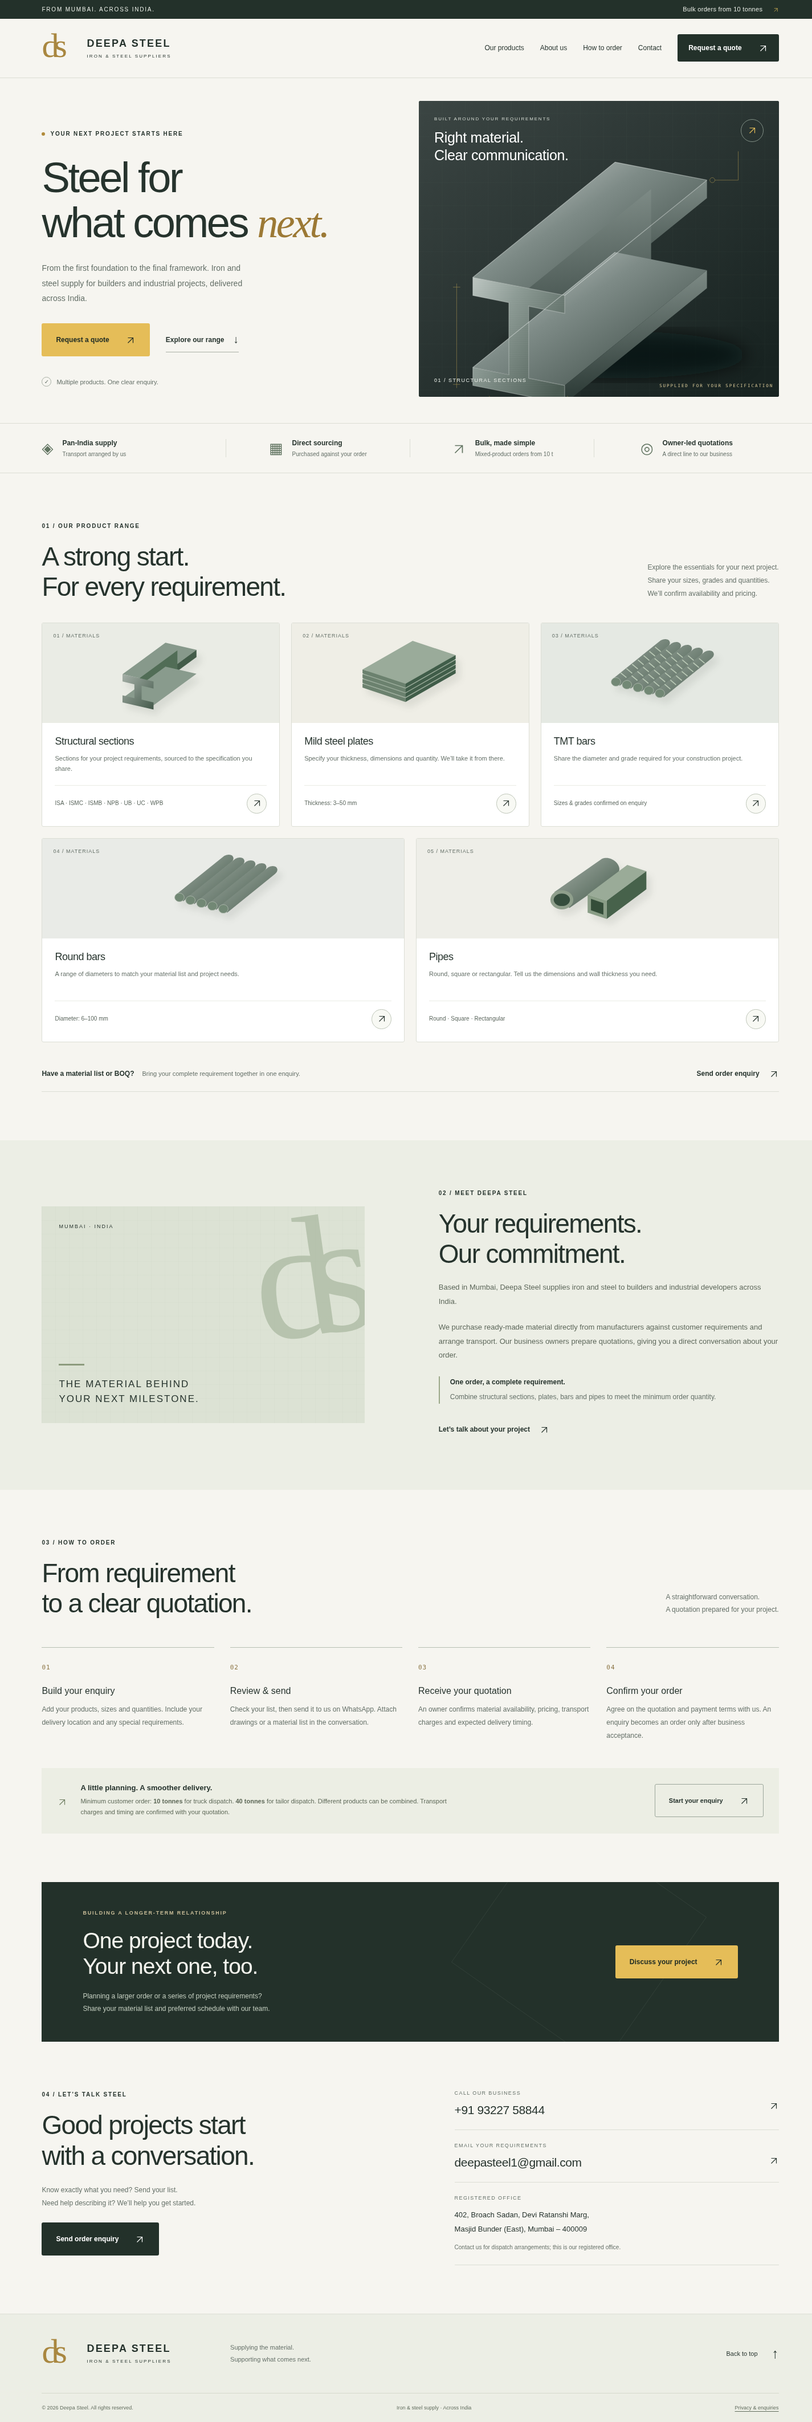
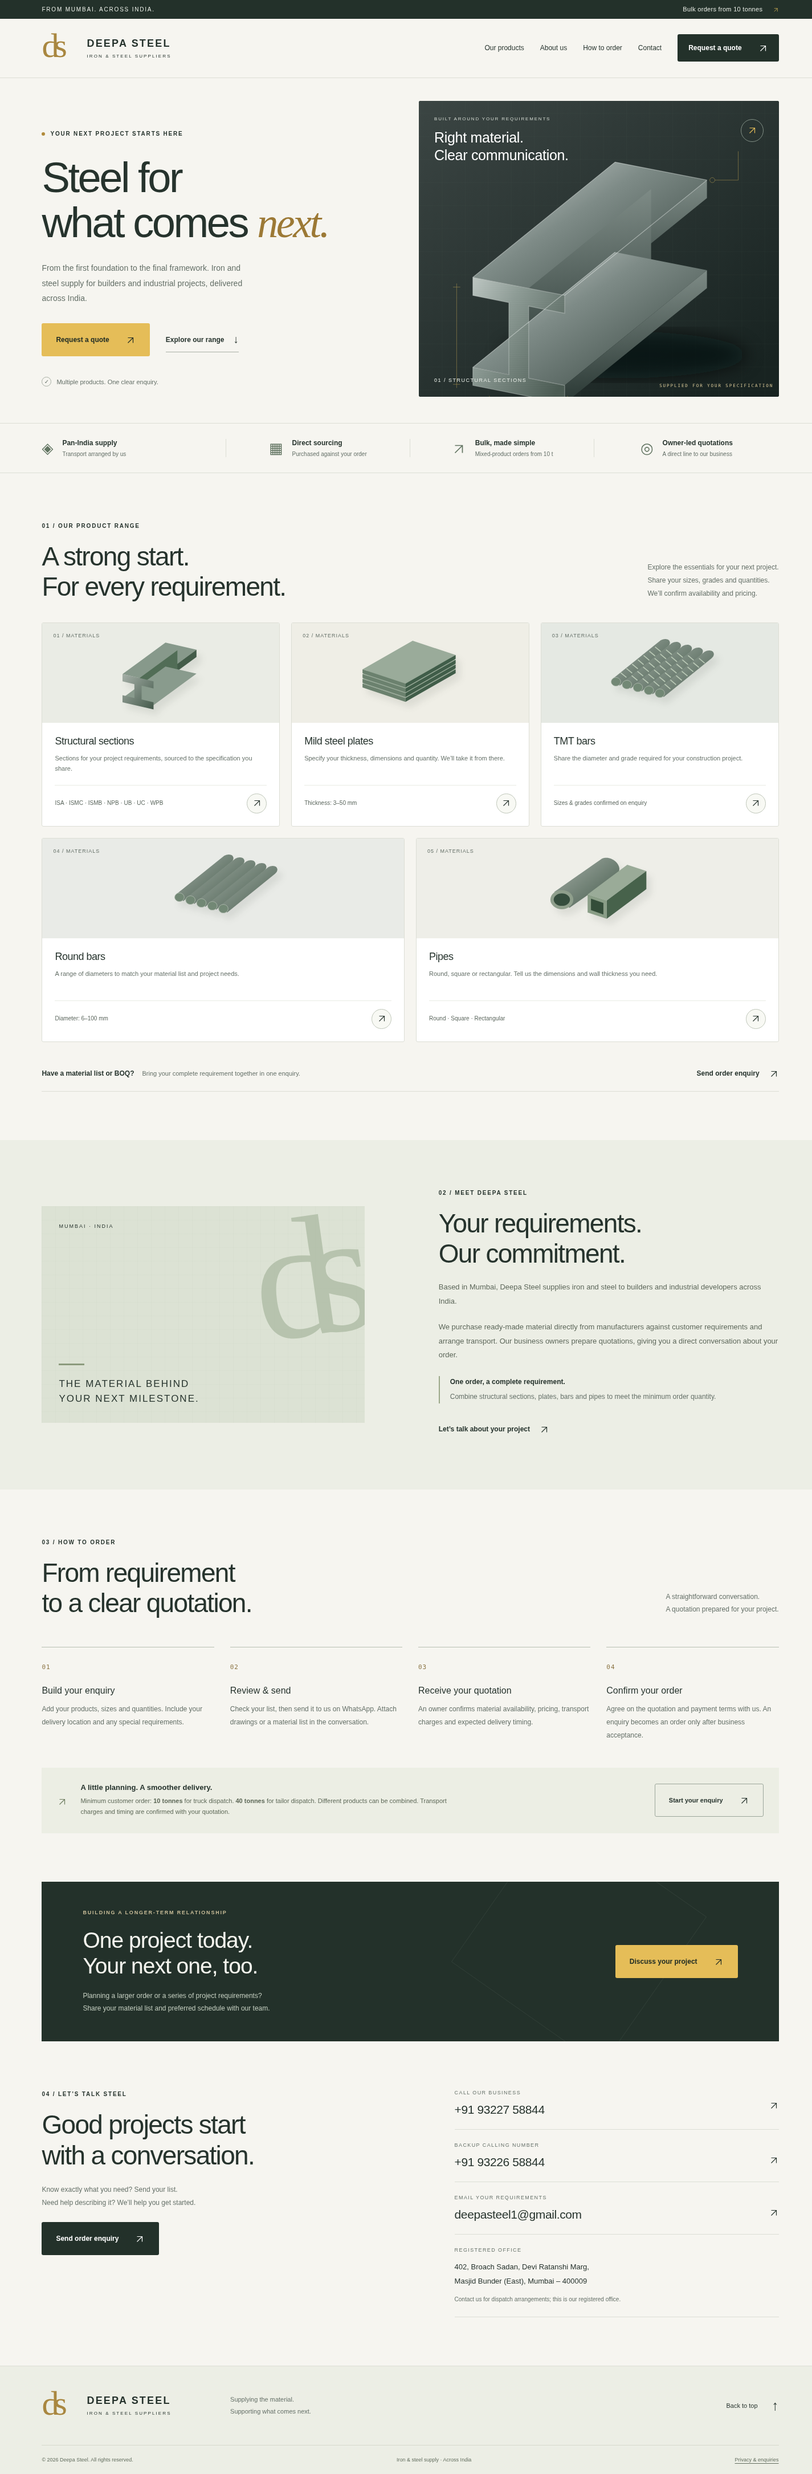
Add backup calling number to website and interactive preview

diff --git a/preview/Deepa-Steel-Preview.html b/preview/Deepa-Steel-Preview.html
@@ -49,15 +49,15 @@ dialog{border:1px solid var(--line);border-radius:8px;background:var(--paper);co
     <section class="about-section section" id="about"><div class="about-art" aria-hidden="true"><div class="about-ds">ds</div><span>MUMBAI · INDIA</span><div class="about-line"></div><p>THE MATERIAL BEHIND<br>YOUR NEXT MILESTONE.</p></div><div class="about-copy"><p class="eyebrow">02 / MEET DEEPA STEEL</p><h2>Your requirements.<br>Our commitment.</h2><p>Based in Mumbai, Deepa Steel supplies iron and steel to builders and industrial developers across India.</p><p>We purchase ready-made material directly from manufacturers against customer requirements and arrange transport. Our business owners prepare quotations, giving you a direct conversation about your order.</p><div class="about-detail"><span>One order, a complete requirement.</span><p>Combine structural sections, plates, bars and pipes to meet the minimum order quantity.</p></div><a class="text-link" href="#contact">Let’s talk about your project <span aria-hidden="true"><svg class="arrow-icon" viewBox="0 0 24 24" width="18" height="18" fill="none" stroke="currentColor" stroke-width="1.6" aria-hidden="true"><path d="M6 18 18 6M6 6h12v12"/></svg></span></a></div></section>
     <section class="section order-section" id="how-to-order"><div class="section-heading"><div><p class="eyebrow">03 / HOW TO ORDER</p><h2>From requirement<br>to a clear quotation.</h2></div><p>A straightforward conversation.<br>A quotation prepared for your project.</p></div><div class="steps"><article><span class="step-number">01</span><h3>Build your enquiry</h3><p>Add your products, sizes and quantities. Include your delivery location and any special requirements.</p></article><article><span class="step-number">02</span><h3>Review & send</h3><p>Check your list, then send it to us on WhatsApp. Attach drawings or a material list in the conversation.</p></article><article><span class="step-number">03</span><h3>Receive your quotation</h3><p>An owner confirms material availability, pricing, transport charges and expected delivery timing.</p></article><article><span class="step-number">04</span><h3>Confirm your order</h3><p>Agree on the quotation and payment terms with us. An enquiry becomes an order only after business acceptance.</p></article></div><div class="delivery-note"><span class="delivery-icon" aria-hidden="true"><svg class="arrow-icon" viewBox="0 0 24 24" width="18" height="18" fill="none" stroke="currentColor" stroke-width="1.6" aria-hidden="true"><path d="M6 18 18 6M6 6h12v12"/></svg></span><div><h3>A little planning. A smoother delivery.</h3><p>Minimum customer order: <strong>10 tonnes</strong> for truck dispatch. <strong>40 tonnes</strong> for tailor dispatch. Different products can be combined. Transport charges and timing are confirmed with your quotation.</p></div><button class="button button-outline" data-enquire>Start your enquiry <span aria-hidden="true"><svg class="arrow-icon" viewBox="0 0 24 24" width="18" height="18" fill="none" stroke="currentColor" stroke-width="1.6" aria-hidden="true"><path d="M6 18 18 6M6 6h12v12"/></svg></span></button></div></section>
     <section class="project-banner"><div><p class="eyebrow">BUILDING A LONGER-TERM RELATIONSHIP</p><h2>One project today.<br>Your next one, too.</h2><p>Planning a larger order or a series of project requirements?<br>Share your material list and preferred schedule with our team.</p></div><button class="button button-gold" data-enquire data-purpose="Repeat / project supply">Discuss your project <span aria-hidden="true"><svg class="arrow-icon" viewBox="0 0 24 24" width="18" height="18" fill="none" stroke="currentColor" stroke-width="1.6" aria-hidden="true"><path d="M6 18 18 6M6 6h12v12"/></svg></span></button></section>
-    <section class="section contact-section" id="contact"><div><p class="eyebrow">04 / LET’S TALK STEEL</p><h2>Good projects start<br>with a conversation.</h2><p>Know exactly what you need? Send your list.<br>Need help describing it? We’ll help you get started.</p><button class="button button-dark" data-enquire>Send order enquiry <span aria-hidden="true"><svg class="arrow-icon" viewBox="0 0 24 24" width="18" height="18" fill="none" stroke="currentColor" stroke-width="1.6" aria-hidden="true"><path d="M6 18 18 6M6 6h12v12"/></svg></span></button></div><div class="contact-details"><a href="tel:+919322758844"><span>CALL OUR BUSINESS</span><strong>+91 93227 58844</strong><span class="contact-arrow" aria-hidden="true"><svg class="arrow-icon" viewBox="0 0 24 24" width="18" height="18" fill="none" stroke="currentColor" stroke-width="1.6" aria-hidden="true"><path d="M6 18 18 6M6 6h12v12"/></svg></span></a><a href="mailto:deepasteel1@gmail.com"><span>EMAIL YOUR REQUIREMENTS</span><strong>deepasteel1@gmail.com</strong><span class="contact-arrow" aria-hidden="true"><svg class="arrow-icon" viewBox="0 0 24 24" width="18" height="18" fill="none" stroke="currentColor" stroke-width="1.6" aria-hidden="true"><path d="M6 18 18 6M6 6h12v12"/></svg></span></a><div><span>REGISTERED OFFICE</span><p>402, Broach Sadan, Devi Ratanshi Marg,<br>Masjid Bunder (East), Mumbai – 400009</p><small>Contact us for dispatch arrangements; this is our registered office.</small></div></div></section>
+    <section class="section contact-section" id="contact"><div><p class="eyebrow">04 / LET’S TALK STEEL</p><h2>Good projects start<br>with a conversation.</h2><p>Know exactly what you need? Send your list.<br>Need help describing it? We’ll help you get started.</p><button class="button button-dark" data-enquire>Send order enquiry <span aria-hidden="true"><svg class="arrow-icon" viewBox="0 0 24 24" width="18" height="18" fill="none" stroke="currentColor" stroke-width="1.6" aria-hidden="true"><path d="M6 18 18 6M6 6h12v12"/></svg></span></button></div><div class="contact-details"><a href="tel:+919322758844"><span>CALL OUR BUSINESS</span><strong>+91 93227 58844</strong><span class="contact-arrow" aria-hidden="true"><svg class="arrow-icon" viewBox="0 0 24 24" width="18" height="18" fill="none" stroke="currentColor" stroke-width="1.6" aria-hidden="true"><path d="M6 18 18 6M6 6h12v12"/></svg></span></a><a href="tel:+919322658844"><span>BACKUP CALLING NUMBER</span><strong>+91 93226 58844</strong><span class="contact-arrow" aria-hidden="true"><svg class="arrow-icon" viewBox="0 0 24 24" width="18" height="18" fill="none" stroke="currentColor" stroke-width="1.6" aria-hidden="true"><path d="M6 18 18 6M6 6h12v12"/></svg></span></a><a href="mailto:deepasteel1@gmail.com"><span>EMAIL YOUR REQUIREMENTS</span><strong>deepasteel1@gmail.com</strong><span class="contact-arrow" aria-hidden="true"><svg class="arrow-icon" viewBox="0 0 24 24" width="18" height="18" fill="none" stroke="currentColor" stroke-width="1.6" aria-hidden="true"><path d="M6 18 18 6M6 6h12v12"/></svg></span></a><div><span>REGISTERED OFFICE</span><p>402, Broach Sadan, Devi Ratanshi Marg,<br>Masjid Bunder (East), Mumbai – 400009</p><small>Contact us for dispatch arrangements; this is our registered office.</small></div></div></section>
   </main>
   <footer><div class="footer-main"><a class="brand" href="#home"><span class="brand-mark" aria-hidden="true">ds</span><span class="brand-name">DEEPA STEEL<small>IRON & STEEL SUPPLIERS</small></span></a><p>Supplying the material.<br>Supporting what comes next.</p><a href="#home" class="back-top">Back to top <span aria-hidden="true">↑</span></a></div><div class="footer-bottom"><span>© <span id="year"></span> Deepa Steel. All rights reserved.</span><span>Iron & steel supply · Across India</span><button id="privacy-open">Privacy & enquiries</button></div></footer>
-  <noscript><div class="noscript">To prepare an enquiry, enable JavaScript. You can also call <a href="tel:+919322758844">9322758844</a> or email <a href="mailto:deepasteel1@gmail.com">deepasteel1@gmail.com</a>.</div></noscript>
-  <dialog id="enquiry-dialog" aria-labelledby="enquiry-title"><div class="dialog-header"><div><p class="eyebrow">LET’S GET YOUR PROJECT MOVING</p><h2 id="enquiry-title">Your steel enquiry</h2></div><button class="icon-button" id="enquiry-close" aria-label="Close enquiry">×</button></div><ol class="wizard-progress" aria-label="Enquiry progress"><li data-step="0">1 <span>Materials</span></li><li data-step="1">2 <span>Your details</span></li><li data-step="2">3 <span>Review & send</span></li></ol><div id="wizard-content"></div><div class="dialog-bottom"><span>Questions? <a href="tel:+919322758844">Call 9322758844</a></span><span>Quotation enquiry · No payment required</span></div></dialog>
-  <dialog id="privacy-dialog" aria-labelledby="privacy-title"><div class="dialog-header"><h2 id="privacy-title">Privacy & enquiries</h2><button class="icon-button" id="privacy-close" aria-label="Close privacy information">×</button></div><div class="privacy-content"><p>Your enquiry details stay in this page’s memory until you refresh or leave. This website does not store enquiries in a database, use advertising trackers, or upload your selected files.</p><p>When you choose WhatsApp, the prepared text is passed to WhatsApp. You must press Send in WhatsApp to send it to Deepa Steel. Selected files must be attached separately there. WhatsApp handles that communication under its own terms and privacy policy.</p><p>Copy and download options let you keep a copy on your own device. The reference identifies your draft; it is not proof of receipt, an accepted order, or a payment.</p><p>Share only information necessary for your quotation. For questions about information you have sent to our business, contact <a href="mailto:deepasteel1@gmail.com">deepasteel1@gmail.com</a> or call <a href="tel:+919322758844">9322758844</a>.</p></div></dialog>
+  <noscript><div class="noscript">To prepare an enquiry, enable JavaScript. You can also call <a href="tel:+919322758844">9322758844</a> or <a href="tel:+919322658844">9322658844 (backup)</a>, or email <a href="mailto:deepasteel1@gmail.com">deepasteel1@gmail.com</a>.</div></noscript>
+  <dialog id="enquiry-dialog" aria-labelledby="enquiry-title"><div class="dialog-header"><div><p class="eyebrow">LET’S GET YOUR PROJECT MOVING</p><h2 id="enquiry-title">Your steel enquiry</h2></div><button class="icon-button" id="enquiry-close" aria-label="Close enquiry">×</button></div><ol class="wizard-progress" aria-label="Enquiry progress"><li data-step="0">1 <span>Materials</span></li><li data-step="1">2 <span>Your details</span></li><li data-step="2">3 <span>Review & send</span></li></ol><div id="wizard-content"></div><div class="dialog-bottom"><span>Questions? <a href="tel:+919322758844">Call 9322758844</a><br>Backup: <a href="tel:+919322658844">9322658844</a></span><span>Quotation enquiry · No payment required</span></div></dialog>
+  <dialog id="privacy-dialog" aria-labelledby="privacy-title"><div class="dialog-header"><h2 id="privacy-title">Privacy & enquiries</h2><button class="icon-button" id="privacy-close" aria-label="Close privacy information">×</button></div><div class="privacy-content"><p>Your enquiry details stay in this page’s memory until you refresh or leave. This website does not store enquiries in a database, use advertising trackers, or upload your selected files.</p><p>When you choose WhatsApp, the prepared text is passed to WhatsApp. You must press Send in WhatsApp to send it to Deepa Steel. Selected files must be attached separately there. WhatsApp handles that communication under its own terms and privacy policy.</p><p>Copy and download options let you keep a copy on your own device. The reference identifies your draft; it is not proof of receipt, an accepted order, or a payment.</p><p>Share only information necessary for your quotation. For questions about information you have sent to our business, contact <a href="mailto:deepasteel1@gmail.com">deepasteel1@gmail.com</a> or call <a href="tel:+919322758844">9322758844</a> or <a href="tel:+919322658844">9322658844 (backup)</a>.</p></div></dialog>
 <script>(function(){
 'use strict';
-const BUSINESS = Object.freeze({ name: 'Deepa Steel', phone: '919322758844', email: 'deepasteel1@gmail.com' });
+const BUSINESS = Object.freeze({ name: 'Deepa Steel', phone: '919322758844', backupPhone: '919322658844', email: 'deepasteel1@gmail.com' });
 const CATALOG = [
   { id: 'structural', name: 'Structural sections', short: 'Sections for your project requirements, sourced to the specification you share.', spec: 'ISA · ISMC · ISMB · NPB · UB · UC · WPB' },
   { id: 'plates', name: 'Mild steel plates', short: 'Specify your thickness, dimensions and quantity. We’ll take it from there.', spec: 'Thickness: 3–50 mm' },
@@ -362,7 +362,7 @@ function renderReview() {
   const message = buildMessage(state);
   const handoff = whatsappHandoff(message, state.reference);
   const weight = orderWeight(state.items);
-  $('#wizard-content').innerHTML = `<div class="review-heading"><h3>Check your enquiry before sending</h3><span class="draft-ref">${esc(state.reference)} · draft reference</span></div><div class="review-grid"><section class="review-box" aria-label="Review materials"><h4>Your material list</h4>${state.items.map((item, index) => itemCard(item, index, false)).join('')}<p><strong>${weight.needsEstimate ? `Estimated total: ${esc(d.estimatedTonnes)} tonnes` : `Listed total: ${formatWeight(weight.knownTonnes)} tonnes`}</strong></p>${weight.needsEstimate ? '<p>Customer estimate; weight will be verified by the owner.</p>' : ''}<button class="plain-button" id="review-materials">Edit materials</button></section><section class="review-box" aria-label="Review contact and delivery"><h4>Contact & delivery</h4><p><strong>${esc(d.name)}</strong>${d.company ? `<br>${esc(d.company)}` : ''}<br>${esc(d.reply)}: ${esc(d.reply === 'Email' ? d.email : d.phone)}</p><p>Delivery: ${esc(d.location)}${d.pincode ? `, ${esc(d.pincode)}` : ''}<br>Dispatch: ${esc(d.transport)}<br>${esc(d.purpose)}</p>${d.date ? `<p>Preferred date: ${esc(d.date)} (to be confirmed)</p>` : ''}${d.notes ? `<p>Special requirements: ${esc(d.notes)}</p>` : ''}${state.files.length ? `<p><strong>Attach separately in WhatsApp:</strong><br>${state.files.map(file => esc(file.name)).join('<br>')}</p>` : ''}<button class="plain-button" id="review-details">Edit your details</button></section></div><div class="notice"><strong>One more step: press Send in WhatsApp.</strong>This website prepares your enquiry. Opening WhatsApp does not send it. An owner will confirm pricing, availability, freight, payment terms and delivery timing. An enquiry is not an accepted order.${state.files.length ? ' Remember to attach your selected files in the WhatsApp conversation.' : ''}</div>${handoff.needsCopy ? '<div class="notice"><strong>Your enquiry is longer than our mobile link limit.</strong>First copy the full enquiry below. Then open WhatsApp, paste it into the conversation and press Send. The WhatsApp link contains only your draft reference and introduction.</div>' : ''}<div class="handoff-actions"><a class="button button-gold" id="whatsapp-send" href="${esc(handoff.url)}" target="_blank" rel="noopener noreferrer" aria-label="Open WhatsApp to send your enquiry">Open WhatsApp <span aria-hidden="true"><svg class="arrow-icon" viewBox="0 0 24 24" width="18" height="18" fill="none" stroke="currentColor" stroke-width="1.6" aria-hidden="true"><path d="M6 18 18 6M6 6h12v12"/></svg></span></a><button class="button button-outline" id="copy-enquiry">Copy ${handoff.needsCopy ? 'full enquiry' : 'enquiry'}</button><button class="button button-outline" id="download-enquiry">Download enquiry</button></div><p class="status-message" role="status" id="handoff-status"></p><p class="handoff-note">If WhatsApp does not open, copy or download your enquiry and email it to <a href="mailto:${BUSINESS.email}">${BUSINESS.email}</a>, or call <a href="tel:+${BUSINESS.phone}">9322758844</a>. To avoid duplicates, send through one channel and reuse this draft reference when following up.</p><details class="review-message"><summary>View the complete message or copy it manually</summary><label class="field"><span>Enquiry message</span><textarea id="message-text" readonly>${esc(message)}</textarea></label></details><div class="wizard-actions"><button class="plain-button" id="review-back">← Back to your details</button><p class="form-help">No payment is collected on this website.</p></div>`;
+  $('#wizard-content').innerHTML = `<div class="review-heading"><h3>Check your enquiry before sending</h3><span class="draft-ref">${esc(state.reference)} · draft reference</span></div><div class="review-grid"><section class="review-box" aria-label="Review materials"><h4>Your material list</h4>${state.items.map((item, index) => itemCard(item, index, false)).join('')}<p><strong>${weight.needsEstimate ? `Estimated total: ${esc(d.estimatedTonnes)} tonnes` : `Listed total: ${formatWeight(weight.knownTonnes)} tonnes`}</strong></p>${weight.needsEstimate ? '<p>Customer estimate; weight will be verified by the owner.</p>' : ''}<button class="plain-button" id="review-materials">Edit materials</button></section><section class="review-box" aria-label="Review contact and delivery"><h4>Contact & delivery</h4><p><strong>${esc(d.name)}</strong>${d.company ? `<br>${esc(d.company)}` : ''}<br>${esc(d.reply)}: ${esc(d.reply === 'Email' ? d.email : d.phone)}</p><p>Delivery: ${esc(d.location)}${d.pincode ? `, ${esc(d.pincode)}` : ''}<br>Dispatch: ${esc(d.transport)}<br>${esc(d.purpose)}</p>${d.date ? `<p>Preferred date: ${esc(d.date)} (to be confirmed)</p>` : ''}${d.notes ? `<p>Special requirements: ${esc(d.notes)}</p>` : ''}${state.files.length ? `<p><strong>Attach separately in WhatsApp:</strong><br>${state.files.map(file => esc(file.name)).join('<br>')}</p>` : ''}<button class="plain-button" id="review-details">Edit your details</button></section></div><div class="notice"><strong>One more step: press Send in WhatsApp.</strong>This website prepares your enquiry. Opening WhatsApp does not send it. An owner will confirm pricing, availability, freight, payment terms and delivery timing. An enquiry is not an accepted order.${state.files.length ? ' Remember to attach your selected files in the WhatsApp conversation.' : ''}</div>${handoff.needsCopy ? '<div class="notice"><strong>Your enquiry is longer than our mobile link limit.</strong>First copy the full enquiry below. Then open WhatsApp, paste it into the conversation and press Send. The WhatsApp link contains only your draft reference and introduction.</div>' : ''}<div class="handoff-actions"><a class="button button-gold" id="whatsapp-send" href="${esc(handoff.url)}" target="_blank" rel="noopener noreferrer" aria-label="Open WhatsApp to send your enquiry">Open WhatsApp <span aria-hidden="true"><svg class="arrow-icon" viewBox="0 0 24 24" width="18" height="18" fill="none" stroke="currentColor" stroke-width="1.6" aria-hidden="true"><path d="M6 18 18 6M6 6h12v12"/></svg></span></a><button class="button button-outline" id="copy-enquiry">Copy ${handoff.needsCopy ? 'full enquiry' : 'enquiry'}</button><button class="button button-outline" id="download-enquiry">Download enquiry</button></div><p class="status-message" role="status" id="handoff-status"></p><p class="handoff-note">If WhatsApp does not open, copy or download your enquiry and email it to <a href="mailto:${BUSINESS.email}">${BUSINESS.email}</a>, or call <a href="tel:+${BUSINESS.phone}">9322758844</a>. Backup calling number: <a href="tel:+${BUSINESS.backupPhone}">9322658844</a>. To avoid duplicates, send through one channel and reuse this draft reference when following up.</p><details class="review-message"><summary>View the complete message or copy it manually</summary><label class="field"><span>Enquiry message</span><textarea id="message-text" readonly>${esc(message)}</textarea></label></details><div class="wizard-actions"><button class="plain-button" id="review-back">← Back to your details</button><p class="form-help">No payment is collected on this website.</p></div>`;
   $('#review-materials').addEventListener('click', () => { state.step = 0; render(); });
   for (const selector of ['#review-details', '#review-back']) $(selector).addEventListener('click', () => { state.step = 1; render(); });
   $('#whatsapp-send').addEventListener('click', event => {

diff --git a/preview/README.md b/preview/README.md
@@ -43,3 +43,7 @@ The downloaded-file option above lets you review first without putting a preview
 ## Validation notes
 
 The standalone sample passed nine Chromium checks for catalogue rendering, multiple products, validation, review, keyboard focus, mobile navigation and disabled outgoing handoff. It was loaded from a local HTTP server and tested with browser networking disabled afterward. This managed test browser blocks file URLs, so direct file opening could not be independently tested here. The sample contains its own styles, scripts and artwork and needs no external assets. Production testing previously passed 16 business-rule tests and 15 browser checks.
+
+## Business calling numbers
+
+The contact section shows primary number **9322758844**, followed by backup calling number **9322658844**. Both are click-to-call links in the production website. The original primary number remains the WhatsApp enquiry destination. Review-copy contact links remain disabled.

diff --git a/README.md b/README.md
@@ -27,3 +27,8 @@ These are actual screenshots of the implemented website, captured in desktop Chr
 ![Deepa Steel complete desktop page](screenshots/desktop-full-page.png)
 
 The screenshots show the catalogue, company information, ordering guidance and contact sections. This branch publishes the two images for review; it does not deploy the website.
+## Updated business contacts
+
+Primary calls / WhatsApp: **9322758844**. Backup calling number, shown below the primary: **9322658844**.
+
+[Desktop contact section](screenshots/contact-desktop.png) · [Mobile contact section](screenshots/contact-mobile.png)
